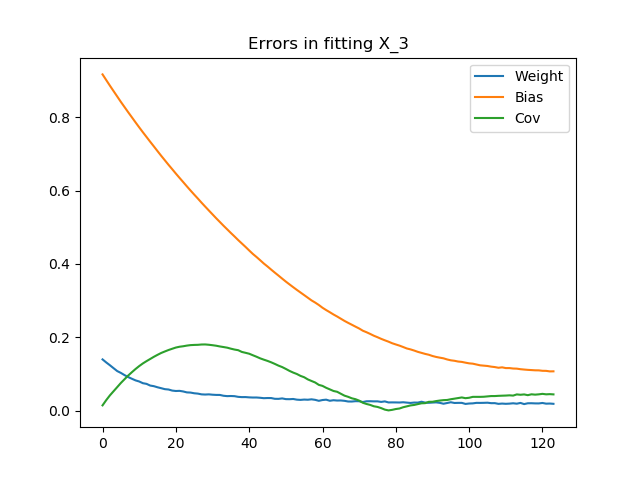
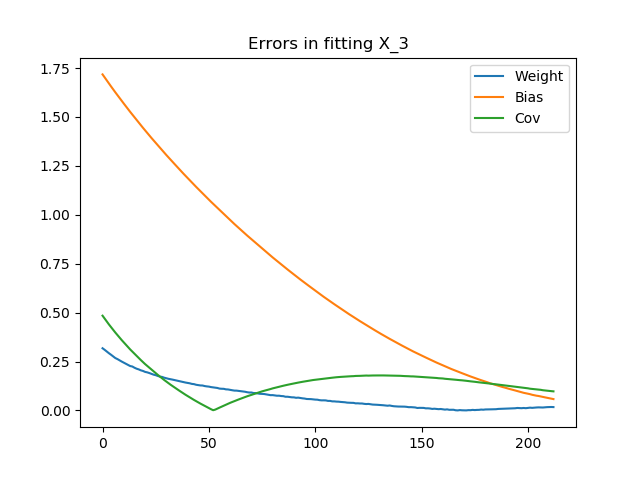
Add stopping criterion for training code

diff --git a/fitting.py b/fitting.py
@@ -116,7 +116,28 @@ class NeuralNetGaussianConditionalFn(GaussianConditionalFn):
         cov = self.cov_matrix()
         return GaussianDistribution(mean, cov)
 
-def learn_gaussian_conditional_fn(cond_fn_approx, evidence, data, batch_size=32, eps=5e-4, recent_epochs=20, max_epochs=100, verbose=True, log_fn=None):
+
+def create_stopping_criterion(recent_epochs=20, eps=5e-3):
+    recent_losses = []
+
+    def should_stop(loss):
+        recent_losses.append(loss)
+        if len(recent_losses) > recent_epochs:
+            recent_losses.pop(0)
+            
+            diffs = 0
+            for i in range(1, recent_epochs):
+                diffs += abs(recent_losses[i] - recent_losses[i-1])
+            
+            if diffs / (recent_epochs - 1) < eps:
+                return True
+        
+        return False
+
+    return should_stop
+
+
+def learn_gaussian_conditional_fn(cond_fn_approx, evidence, data, batch_size=128, eps=5e-3, recent_epochs=20, max_epochs=100, verbose=True, log_fn=None):
     """
     Given evidence and data, uses MLE to learn the optimal parameters for cond_fn, 
      which maps evidence values to a GaussianDistribution object (with a mean and covariance). 
@@ -141,7 +162,7 @@ def learn_gaussian_conditional_fn(cond_fn_approx, evidence, data, batch_size=32,
     recent_losses = []
 
     max_epochs = int(3e5 // len(data))
-    # max_epochs = 100
+    stop_criterion = create_stopping_criterion()
 
     for epoch in range(max_epochs):
         total_loss = 0
@@ -156,12 +177,6 @@ def learn_gaussian_conditional_fn(cond_fn_approx, evidence, data, batch_size=32,
             optimizer.step()
 
         # Log current parameters
-        # a = cond_fn_approx.weights[0].weight.squeeze()
-        # b = cond_fn_approx.weights[0].bias.squeeze()
-        with torch.no_grad():
-            cov = cond_fn_approx.cov_matrix()
-        # if verbose:
-            # print(f"a: {a}\nb: {b}\nCov: {cov}")
         if log_fn:
             log_fn(cond_fn_approx)
 
@@ -170,18 +185,10 @@ def learn_gaussian_conditional_fn(cond_fn_approx, evidence, data, batch_size=32,
         print(f"\nEpoch {epoch}; Avg Loss: {avg_loss}") # Avg loss per batch
         epoch += 1
 
-        # Check stopping creteria
-        recent_losses.append(avg_loss)
-        if len(recent_losses) > recent_epochs:
-            recent_losses.pop(0)
-            
-            diffs = 0
-            for i in range(1, recent_epochs):
-                diffs += recent_losses[i] - recent_losses[i-1]
-            
-            if abs(diffs / (recent_epochs - 1)) < eps:
-                # break
-                break
+        # Check stopping criterion
+        if stop_criterion(avg_loss):
+            print("Stopping early.")
+            break
         
     # No gradients during actual evaluation
     for param in cond_fn_approx.parameters():
@@ -251,7 +258,7 @@ def fit_VI(data, mc, variational_mc, batch_size=32, plot_name="vi_loss"):
 
     # Setting up pytorch iteration
     batch_size = 32
-    num_epochs = 150
+    num_epochs = 300
 
     # Iterable that gives data from training set in batches with shuffling
     evidence_data = data[f"X_{end_idx}"]
@@ -270,6 +277,8 @@ def fit_VI(data, mc, variational_mc, batch_size=32, plot_name="vi_loss"):
 
     print("Begin training loop")
     train_losses = []
+    stop_criterion = create_stopping_criterion(eps=1e-3)
+
     # Pytorch training loop
     for epoch in range(num_epochs):
         total_loss = 0
@@ -284,11 +293,16 @@ def fit_VI(data, mc, variational_mc, batch_size=32, plot_name="vi_loss"):
             optimizer.step()
 
         # Print statistics
-        print(f"Epoch {epoch}; Avg Loss: {total_loss / len(trainloader)}")  # Avg loss per batch
-        train_losses += [total_loss / len(trainloader)]
+        avg_loss = total_loss / len(trainloader)
+        print(f"Epoch {epoch}; Avg Loss: {avg_loss}")  # Avg loss per batch
+        train_losses += [avg_loss]
         plt.plot(train_losses)
         plt.savefig(f"{plot_name}.png")
         epoch += 1
+
+        if stop_criterion(avg_loss):
+            print("Stopping early.")
+            break
 
     for node in variational_mc.all_nodes():
         if node.cpd.is_learnable:

diff --git a/experiments.py b/experiments.py
@@ -102,18 +102,18 @@ def get_coeffs_from_generative(mc, query, evidence):
 
 
         
-def test_finite_samples(sample_amounts=[500]):
+def test_finite_samples(sample_amounts=[200]):
     # true_mc = SimpleMarkovChain(5)
     # true_mc.specify_polynomial_cpds((0, 1), [(1.2, 0.3), (0.4, 2), (2.3, -1.2), (1.5, 0.6)], [0.5, 1.5, 0.8, 2.3])
 
-    length = 5
+    # length = 5
 
-    true_mc = SimpleMarkovChain(length)
-    true_mc.specify_polynomial_cpds((0, 1), [(1, 0), (1, 0), (1, 0), (1, 0)], [1, 1, 1, 1])
-
-    # length = 2
     # true_mc = SimpleMarkovChain(length)
-    # true_mc.specify_polynomial_cpds((0, 1), [(1, 0)], [4])
+    # true_mc.specify_polynomial_cpds((0, 1), [(1, 0), (1, 0), (1, 0), (1, 0)], [1, 1, 1, 1])
+
+    length = 2
+    true_mc = SimpleMarkovChain(length)
+    true_mc.specify_polynomial_cpds((0, 1), [(1, 0)], [4])
 
     true_weight, true_bias, true_cov = get_coeffs_from_generative(true_mc, "X_1", f"X_{length}")
     print(f"True posterior: X_1|X_{length} ~ N({true_weight} * X_{length} + {true_bias}, {true_cov})")

diff --git a/bayes_net.py b/bayes_net.py
@@ -150,11 +150,16 @@ class BayesNet(DirectedAcyclicGraph):
 
     def get_log_prob(self, data, exclude=[]):
         """
+        Returns the log joint probability of the the given data.
+
         Parameters
         ----------
         data : dict[str, tensor]
             A named dataset where the keys are the node names, and the values are
             a list of sampled values for that node
+
+        exclude : list[str]
+            A list of names of nodes to exclude from the log prob calculation.
         """
         return sum([self._log_prob_for_node(node_name, data) for node_name in self.ordering if not node_name in exclude])
     
